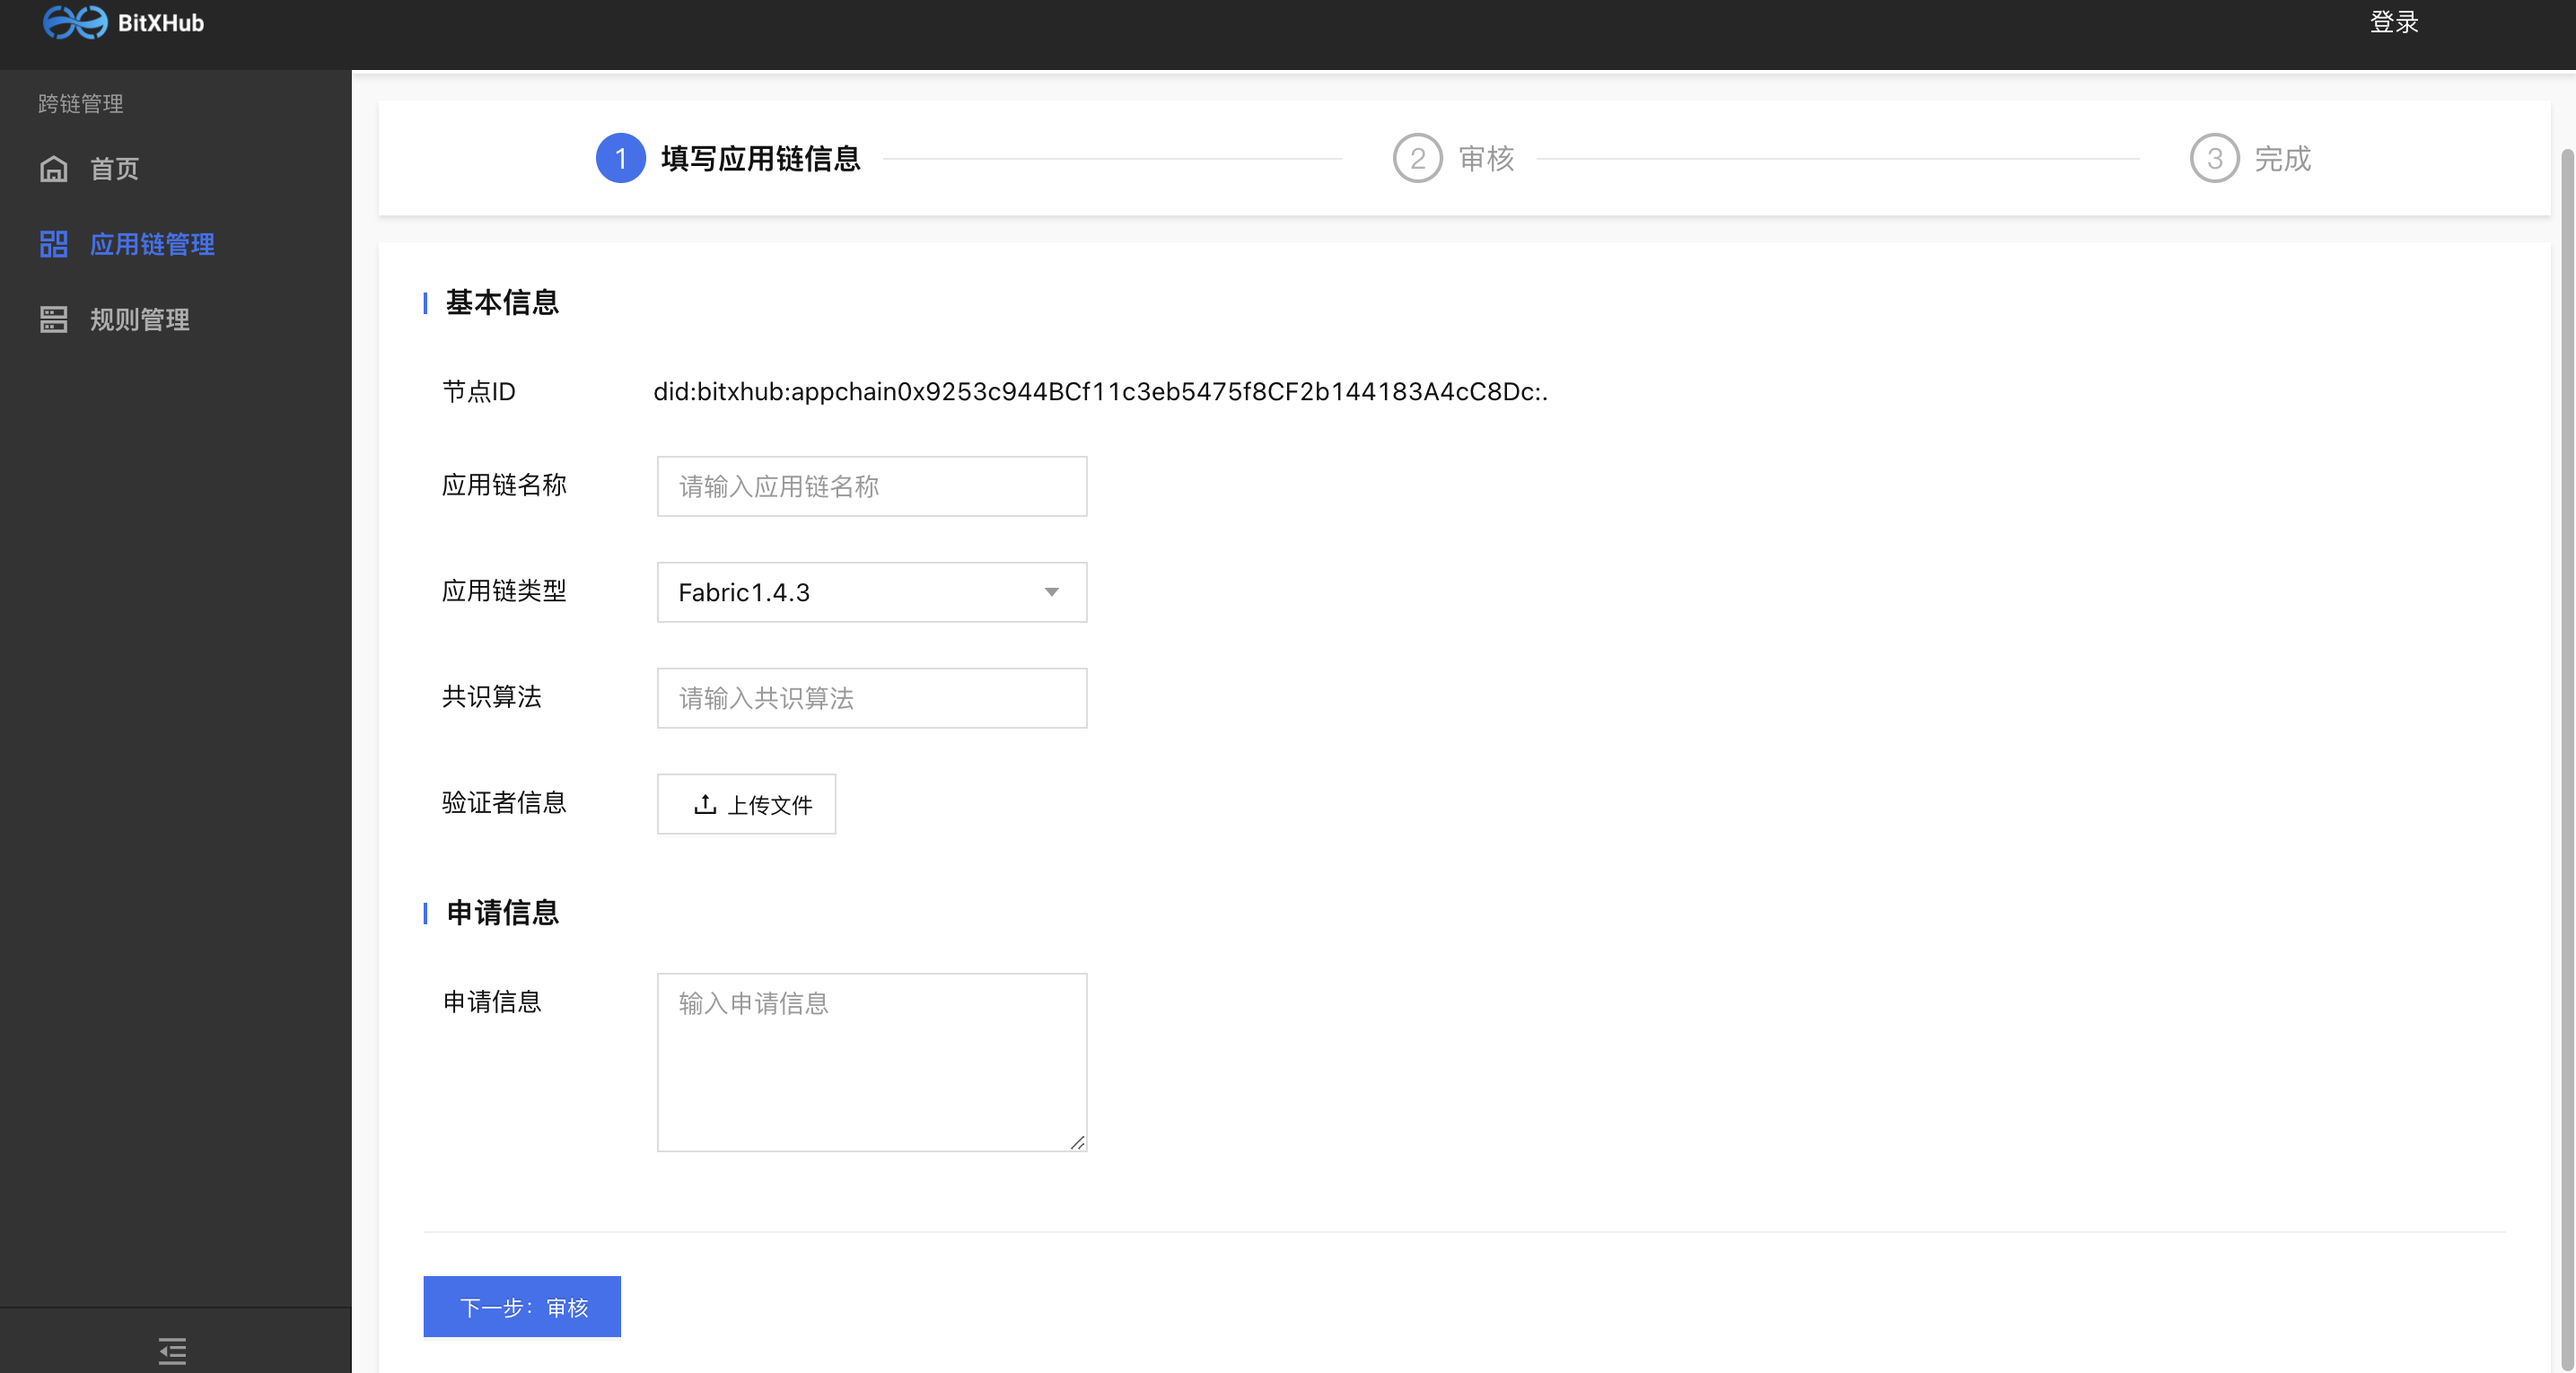
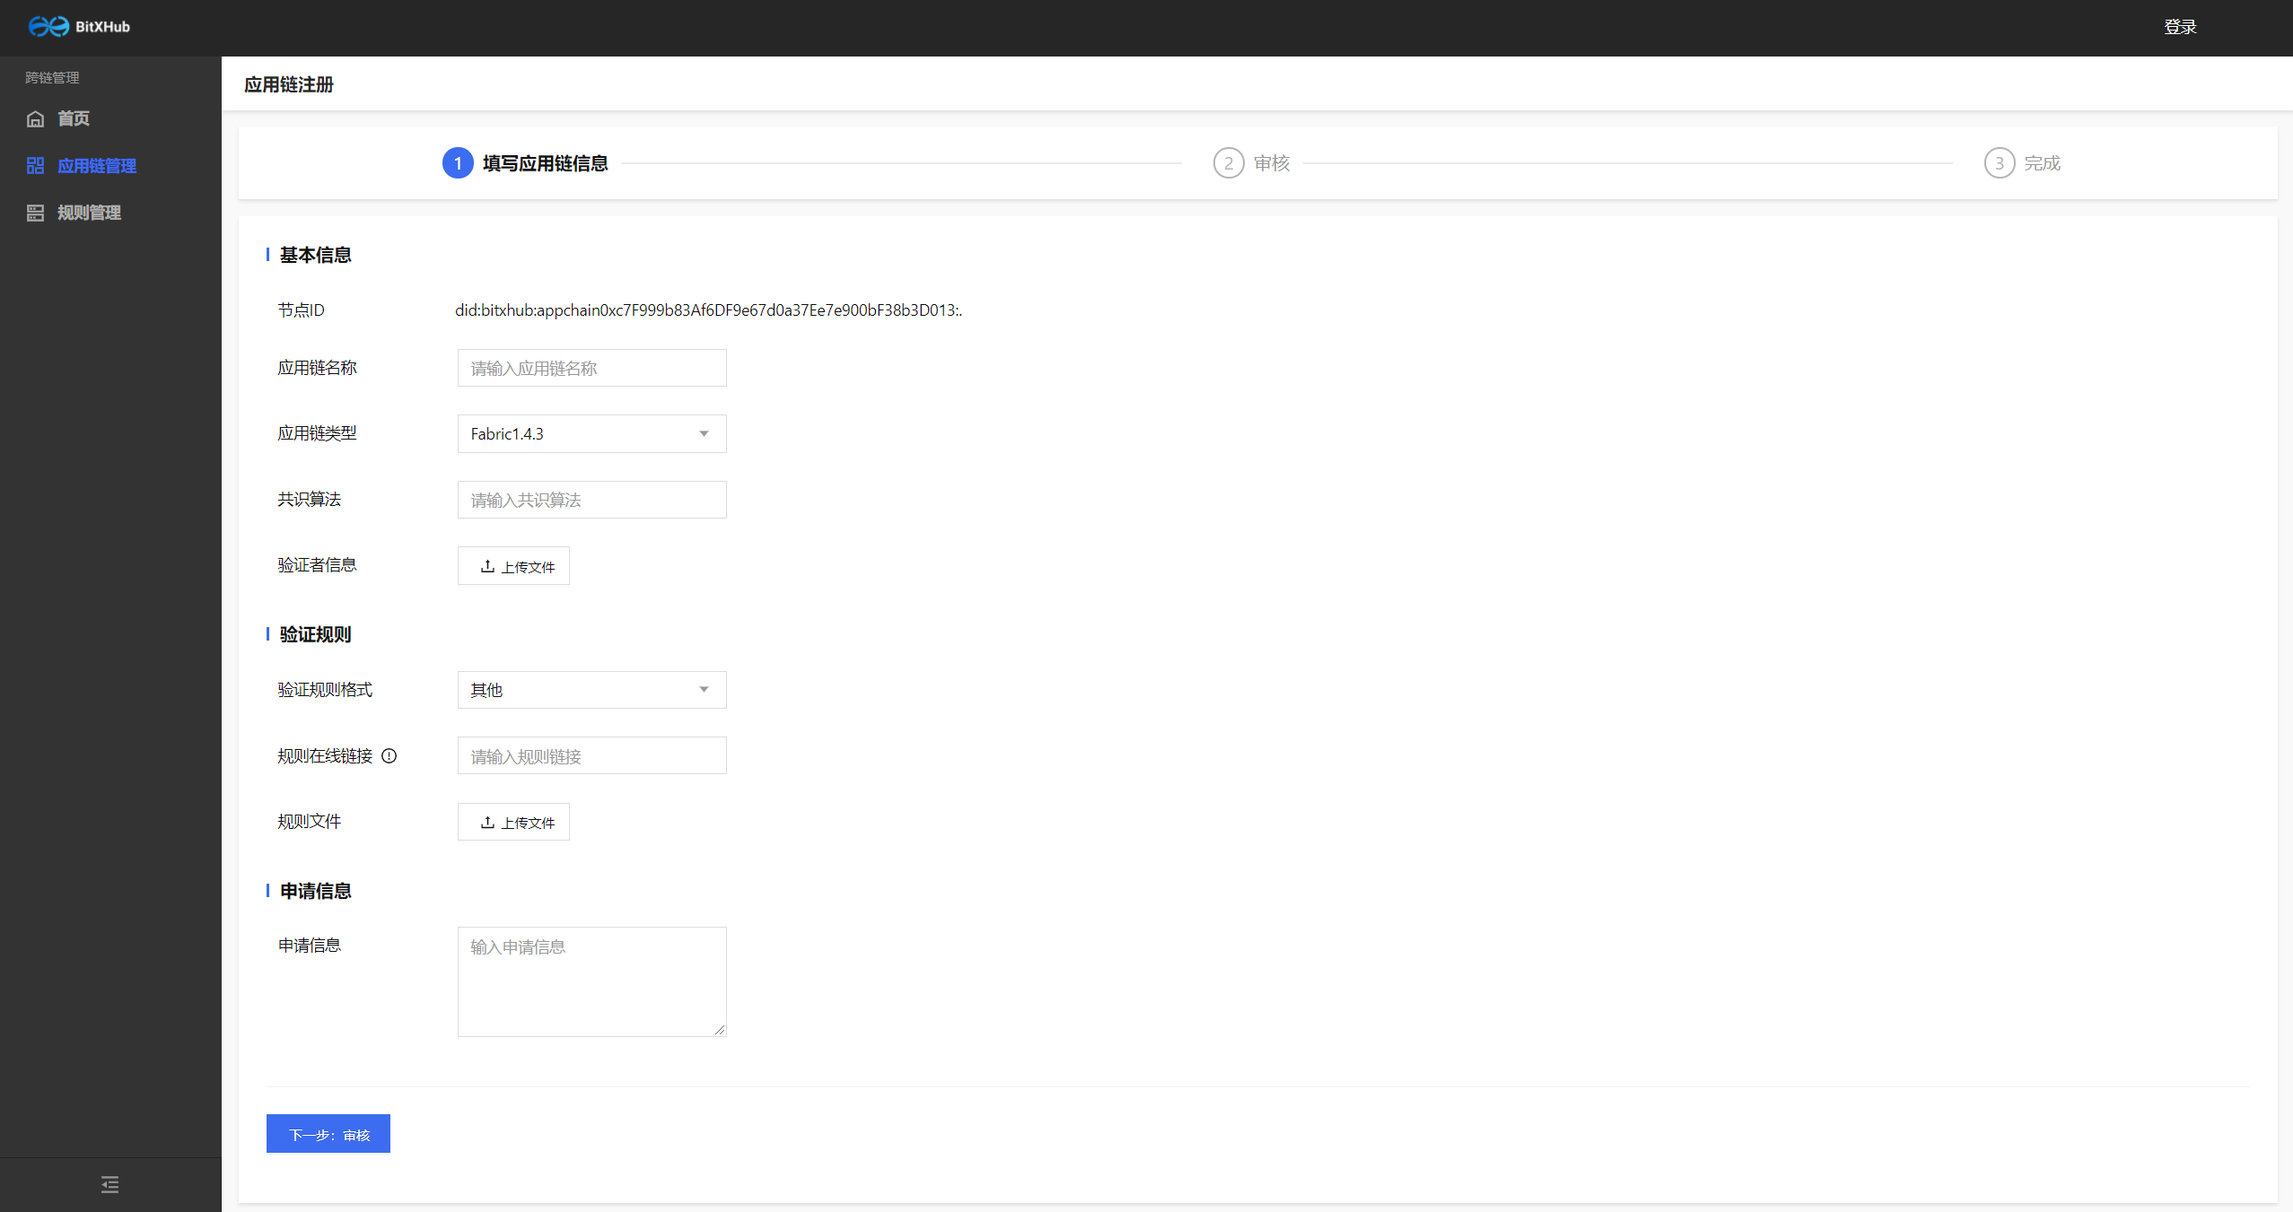
Update docs

diff --git a/docs/docs/scan/index.md b/docs/docs/scan/index.md
@@ -7,7 +7,7 @@
 ### 测试网RPC配置
 选择顶部网络功能，然后选择【自定义RPC】
 
-![网络](../assets/metamask-network.png)
+<img src='../assets/metamask-network.png' width="300" alt="Metamask Network" />
 
 ### BitXHub测试网配置
 
@@ -27,7 +27,7 @@ https://testnet-1.bitxhub.cn:8881
 
 **配置如下图所示**
 
-![网络](../assets/metamask-add-network.png)
+<img src='../assets/metamask-add-network.png' width="300" alt="Network" />
 
 ## 二、应用链环境准备
 
@@ -35,11 +35,11 @@ https://testnet-1.bitxhub.cn:8881
 
 ### 部署跨链合约
 
-可以参考开源文档站[链接](https://meshplus.github.io/bitxhub/bitxhub/usage/single_bitxhub/deploy_pier/#_2)进行跨链合约部署。（注意：文档中提到的二进制或开源项目，均是要对应 v1.11.0的版本）
+可以参考BitXHub文档站[链接](https://meshplus.github.io/bitxhub/bitxhub/usage/single_bitxhub/deploy_pier/#_2)进行跨链合约部署。（注意：文档中提到的二进制或开源项目，均是要对应 v1.11.0的版本）
 
 ### 获取Pier部署包和修改配置
 
-可以参考开源文档站[链接](https://meshplus.github.io/bitxhub/bitxhub/usage/single_bitxhub/deploy_pier/#pier)。
+可以参考BitXHub文档站[链接](https://meshplus.github.io/bitxhub/bitxhub/usage/single_bitxhub/deploy_pier/#pier)。
 
 **注意：**
 
@@ -79,16 +79,16 @@ address: 0xE7f5E3c3963c6a588AB3de753817B3F735a6Ab58
 > 
 > 职业： 学生
 > 
-> 申请人单位：浙江大学
+> 申请人单位：xx大学
 > 
-> 申请人钱包地址：0xE7f5E3c3963c6a588AB3de753817B3F735a6Ab58
+> 申请人地址：0xE7f5E3c3963c6a588AB3de753817B3F735a6Ab58
 
 
 **注意：** 申请人钱包地址需要和Pier地址（由《获取应用链私钥》小节导出的address字段）一致。
 
 第二步：发送邮箱至：bitxhub@hyperchain.cn
 
-📢：申请发送24h内，您的钱包地址将收到1个BXH燃料费，每个用户24h内仅允许申请一次。
+📢：申请发送24h内，您的地址将收到1个BXH燃料费，每个用户24h内仅允许申请一次。
 
 ## 三、浏览器可视化操作
 
@@ -98,17 +98,21 @@ address: 0xE7f5E3c3963c6a588AB3de753817B3F735a6Ab58
 
 注册字段说明：
 
-1. 应用链名称：自定义应用链的名称
+1. 节点ID：系统根据钱包地址自动生成
+
+2. 应用链名称：自定义应用链的名称
    
-2. 应用链类型：分为fabric1.4.3、fabric1.4.4 、hyperchain和 其他 四类
+3. 应用链类型：分为fabric1.4.3、fabric1.4.4 、hyperchain和 其他 四类
    
-3. 版本号：应用链对应的版本号
+4. 版本号：应用链对应的版本号
    
-4. 共识算法：应用链采用的共识算法
+5. 共识算法：应用链采用的共识算法
    
-5. 验证者信息：请参考[验证者信息生成](../bitxhub/dev/validator.md)
+6. 验证者信息：请参考[验证者信息生成](../bitxhub/dev/validator.md)
+
+7. 验证规则：分为fabric1.4.3、fabric1.4.4 、无验证规则和 其他 四类（用户可选择无验证规则模式进行快速跨链体验），根据对应应用链类型选择合适的验证规则。注意其他类型需要提交自定义的验证规则，并附带源码链接。编写规则请参考[验证规则编写](../bitxhub/dev/rule.md)
    
-6. 申请理由：填写申请接入跨链系统的理由
+7. 申请理由：填写申请接入跨链系统的理由
 
 应用链接入BitXHub跨链系统需要获得中继链管理员的准入审批，中继链管理员会在24h内完成应用链注册申请审核，审核通过后，应用链类型为【hyperchain】和【其他】选项的，用户需要进行应用链验证规则的提交申请。
 
